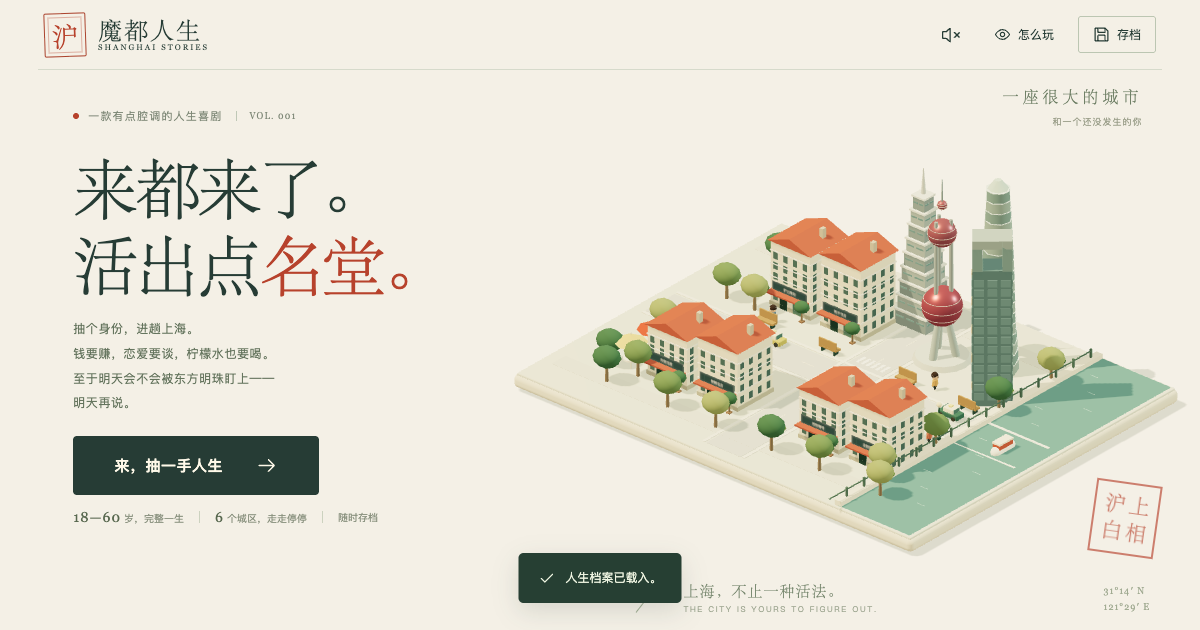
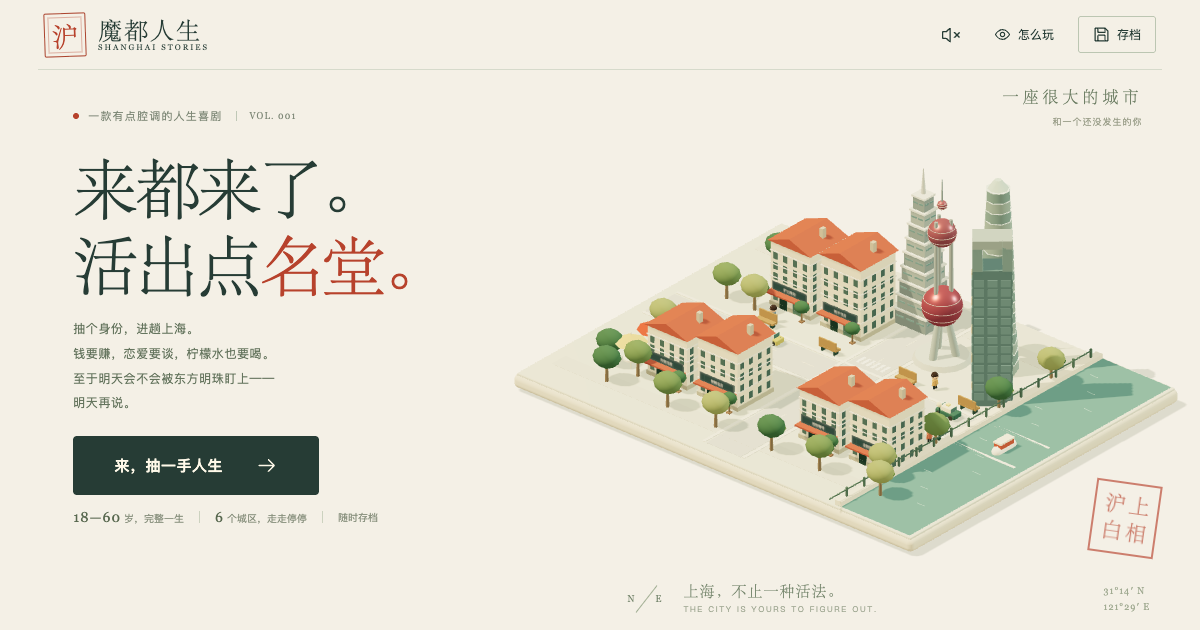
Update Site source

Changed region(s): [[0.4317, 0.8746, 0.5858, 0.9651], [0.8017, 0.6937, 0.8325, 0.7238], [0.7708, 0.6333, 0.8017, 0.6635]]

diff --git a/scripts/production_acceptance.py b/scripts/production_acceptance.py
@@ -34,7 +34,7 @@ with sync_playwright() as p:
  page.wait_for_timeout(700);page.screenshot(path=str(OUT/'ending-desktop.png'),full_page=True)
  # The actual rendered app supplies a dedicated social preview, without remote images.
  page.get_by_role('button',name='魔都人生首页').click();page.set_viewport_size({'width':1200,'height':630})
- page.add_style_tag(content='.topbar{height:70px}.topbar-note{display:none}.home-screen{height:560px;min-height:560px;padding-top:28px;padding-bottom:0}.home-copy h1{font-size:65px;margin:24px 0 16px}.home-description{font-size:12px}.home-start{margin-top:20px}.home-facts{margin-top:14px}.postscript,.home-bottom,.continue-button{display:none}.hero-city{inset:-8px -3% 0 38%}.hero-city-title{top:23px}.city-caption{bottom:14px}.hero-seal{bottom:75px}')
+ page.add_style_tag(content='.toast{display:none}.topbar{height:70px}.topbar-note{display:none}.home-screen{height:560px;min-height:560px;padding-top:28px;padding-bottom:0}.home-copy h1{font-size:65px;margin:24px 0 16px}.home-description{font-size:12px}.home-start{margin-top:20px}.home-facts{margin-top:14px}.postscript,.home-bottom,.continue-button{display:none}.hero-city{inset:-8px -3% 0 38%}.hero-city-title{top:23px}.city-caption{bottom:14px}.hero-seal{bottom:75px}')
  page.wait_for_timeout(700);page.screenshot(path='public/social.png')
  assert Image.open('public/social.png').size==(1200,630)
  report={'production_build':'passed','offline_reload':'passed','share_png':'1080x1440','social_preview':'1200x630','terminal_transition':'59 to 60 through UI','errors':errors}
